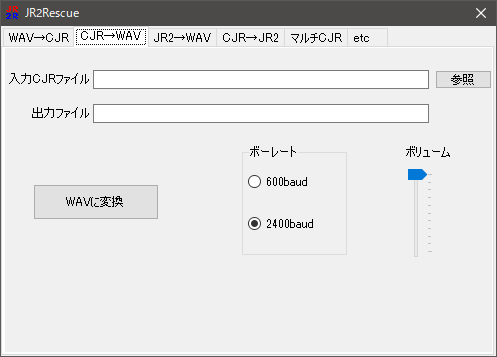
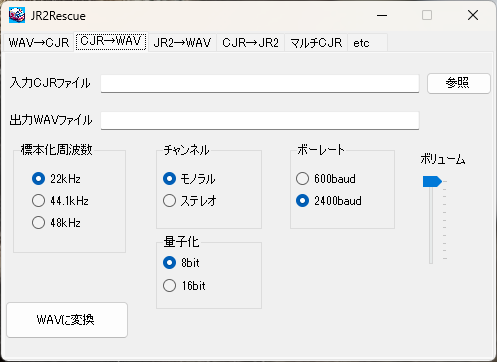
20240218

diff --git a/jr2rescue.html b/jr2rescue.html
@@ -35,17 +35,17 @@
 形式に変換したり、その他のフォーマットに変換するフリーソフトです。</p>
 
 	<ul>
-		<li>必要環境：.net Framework 3.5 以上</li>
+		<li>必要環境： Version 0.5.1. 以上　.net Framework 4.7.2 以上 　／　Version 0.4.2 以下　.net Framework 3.5 以上</li>
 		<li>読み込み可能 WAV ファイル：　サンプリング周波数　22kHz～48kHz、8bit または 16bit 量子化。チャネル数 1または2。リニア PCM のみ。</li>
 	</ul>
 
 <p><strong>※　このプログラムは十分な検証がされていません。ユーザー環境に有害な影響を与えるようなことはしていないつもりですが、いかなる損害が生じても当方は一切補償しません。了解の上ご利用下さい。</strong></p>
 
-<h4>■最新版　JR2Rescue Version 0.4.2</h4>
-	<p>2021.11.13&nbsp; 公開  
+<h4>■最新版　JR2Rescue Version 0.5.1</h4>
+	<p>2024.2.18&nbsp; 公開  
 	 
-	<a href="https://github.com/find-jr200/JR2Rescue/blob/main/JR2Rescue0_4_2.zip">
-	https://github.com/find-jr200/JR2Rescue/blob/main/JR2Rescue0_4_2.zip</a> (46KB)</p>
+	 
+	<a href="https://github.com/find-jr200/JR2Rescue/blob/main/JR2Rescue0_5_1.zip">https://github.com/find-jr200/JR2Rescue/blob/main/JR2Rescue0_5_1.zip</a> (204KB)</p>
 	<p><span lang="ja">　ダウンロードした</span>JR2Rescue<span lang="en-US">
 	</span><span lang="ja">を実行しようとすると「</span><span lang="en-US">Windows </span>
 	<span lang="ja">によって</span><span lang="en-US"> PC </span><span lang="ja">
@@ -53,7 +53,15 @@
 <p>　このプログラムを実行してのバグレポートなどは掲示板またはメール（アドレスはトップページの下の方にあります）にてお願いします。また、読込成功してベーマガプログラムや市販ソフト等のサルベージに成功した方は、よかったらゲーム画面のキャプチャを数点メールしていただけるとうれしいです。当サイトの Software コーナーで紹介させていただきます。</p>
 
 <h3>更新履歴</h3>
-	<p>2021.11.13 JR2Rescue 0.4.2</p>
+	<p>2024.2.18&nbsp; JR2Rescue 0.5.1</p>
+	<ul>
+		<li>WAV 出力フォーマットを 44.1/48kHz、8/16bit、モノ/ステレオも選べるようにしました。</li>
+		<li>実験的機能として、JR-300 のテープの CJR, BIN 化機能を追加ました。</li>
+		<li>アプリケーションアイコンを変更しました。</li>
+		<li>動作対象 .net framework が 4.7.2以上になりました。</li>
+	</ul>
+	<p>2021.11.13 
+	<a href="https://github.com/find-jr200/JR2Rescue/blob/main/JR2Rescue0_4_2.zip">JR2Rescue 0.4.2</a> (46KB)</p>
 	<ul>
 		<li>WAV→CJR 機能が動作しない不都合を修正しました。</li>
 		<li>WAV→CJR タブにある、モトローラS フォーマットでの出力機能を削除しました。</li>
@@ -151,10 +159,12 @@
 
 <p><img alt="" height="356" src="images/jr2r_1.png" width="495"></p>
 
-<p>1.　入力 WAV ファイルを指定し、「WAV読込」を押します。「読込に失敗しました」とダイアログが出る場合は、WAV 
+<p>1.　入力 WAV ファイルと機種を指定し、「WAV読込」を押します。「読込に失敗しました」とダイアログが出る場合は、WAV 
 解析に失敗しているので、飽和度、スレッショルドレベルを変更してみます。</p>
 
-<p>●飽和度</p>
+<p><strong>【注意】</strong>　JR-300 の CJR, BIN 
+化機能は実験的機能です。機種の指定を間違うと「変換が正常に終了しました」とメッセージが出ても正常なデータは生成されません。</p>
+	<p>●飽和度</p>
 
 <p>
 　トラックバーを最小にした状態が、「入力＝出力」、つまり飽和度調整をしない状態です。バーを上げて行くに従い飽和度が高くなります。その様子は右のグラフの緑色の線で確認できます。通常はグラフが半分くらいの位置で飽和するようにしておけばいいでしょう（初期値）。</p>
@@ -182,25 +192,17 @@
 
 <p><img alt="" height="356" src="images/jr2r_2.png" width="495"></p>
 
-<p>　入力 CJR ファイルに変換元のファイルを指定し、600baud / 2400baud を選択して「WAVに変換」を押してください。通常は 
+<p>　入力 CJR ファイルに変換元のファイルを指定し、PCM フォーマット、600baud / 2400baud を選択して「WAVに変換」を押してください。通常は 
 2400baud を選択すればいいでしょう。</p>
-
-<p>※注意点</p>
-
-<p>　出力される WAV ファイルは 22KHz, 8bit, モノラル固定です。</p>
 
 <h3>3. JR2→WAV</h3>
 	<p>JR2 ファイルを WAV ファイルに変換します。</p>
 	<p><img alt="" height="357" src="images/jr2r_3.png" width="497"></p>
-	<p>入力 JR2 ファイルと出力 WAV ファイルを指定し、「WAVに変換」を押してください。</p>
+	<p>入力 JR2 ファイルと出力 WAV ファイルを指定し、PCM フォーマットを選択して「WAVに変換」を押してください。</p>
 	<p>WAV 化した際に JR2 
 	ファイルにもともと付加してあるブランクでは正常に読み込めない場合は「ブランク拡張」にチェックを入れてください。プログラム、データ間のブランクが5秒程度になります（もともとのブランクがそれより長い場合はそのままになります）。ただし、もともとの 
 	JR2 ファイルがブランクなしで作成されている場合は、「ブランク拡張」にチェックを入れても拡張されません。その場合は JR2 
 	ファイルをブランクありで作り直してください。</p>
-
-<p>※注意点</p>
-
-<p>　出力される WAV ファイルは 22KHz, 8bit, モノラル固定です。</p>
 
 	<h3>4. CJR→JR2</h3>
 	<p>　CJR ファイルを JR2 フォーマットに変換します。</p>

diff --git a/jr2rescue_en.html b/jr2rescue_en.html
@@ -33,7 +33,8 @@
 programs on JR-200 to CJR format and other formats.</p>
 
 	<ul>
-		<li>Operation Environment : .net Framework 3.5 or later</li>
+		<li>Operation Environment : Version 0.5.1 and later .net Framework 4.7.2 
+		and later / Version 0.4.2 and older .net Framework 3.5 and later </li>
 		<li>Readable WAV file : sampling frequency 22kHz-48kHz, quantize 8bit or 16bit, 
 		channel 1 or 2.&nbsp; liner PCM only.</li>
 	</ul>
@@ -41,14 +42,16 @@ programs on JR-200 to CJR format and other formats.</p>
 	a harmful effect on the user environment, but I will not compensate for any 
 	damage. Please use it after understanding.</strong></p>
 
-<h4>* Latest version 0.4.2</h4>
-	<p>2021.11.13 
-	<a href="https://github.com/find-jr200/JR2Rescue/blob/main/JR2Rescue0_4_2.zip">
-	https://github.com/find-jr200/JR2Rescue/blob/main/JR2Rescue0_4_2.zip</a> (46KB)</p>
-	<p>*Change point</p>
+<h4>* Latest Version 0.5.1</h4>
+	<p>2024.2.18 
+	<a href="https://github.com/find-jr200/JR2Rescue/blob/main/JR2Rescue0_5_1.zip">https://github.com/find-jr200/JR2Rescue/blob/main/JR2Rescue0_5_1.zip</a> (204KB)</p>
+	<p>*Changed Point</p>
 	<ul>
-		<li>Fixed the problem that WAVtoCJR function does not work.</li>
-		<li>Removed the Motorola S format output feature on WAVtoCJR tab.</li>
+		<li>Added output WAV format (44.1/48kHz, 8/16bits, mono/stereo).</li>
+		<li>*Experimental* Added the function to convert JR-300 tapes to CJR and 
+		BIN formats.</li>
+		<li>changed application icon.</li>
+		<li>required .net framework 4.7.2 and later</li>
 	</ul>
 
 <h3>File Composition</h3>
@@ -64,7 +67,7 @@ programs on JR-200 to CJR format and other formats.</p>
 <p>&nbsp; Convert wav file to CJR, BIN format.</p>
 
 <p><img alt="" height="357" src="images/jr2r_1en.png" width="497"></p>
-	<p>1. Specify the input WAV file and press "Read WAV". If the dialog 
+	<p>1. Specify the input WAV file, output format, Model and press "Read WAV". If the dialog 
 	"failed" appears, WAV analysis has failed, so try changing the saturation 
 	and threshold levels.</p>
 	<p>2. If "Read WAV" is successful, the "Write File" button will be enabled. 
@@ -78,21 +81,14 @@ programs on JR-200 to CJR format and other formats.</p>
 <p><img alt="" height="357" src="images/jr2r_2en.png" width="497"></p>
 	<p>Please specify the source file as the input CJR file and the output file 
 	as the WAV file, select 600baud / 
-	2400baud and press "Convert to WAV"</p>
-
-<p>* Notice</p>
-
-<p>&nbsp; The output WAV format is 22KHz, 8bit, monaural fixed.</p>
+	2400baud , PCM formats and press "Convert to WAV"</p>
 
 <h3>3. JR2toWAV</h3>
 	<p>Convert JR2 to WAV</p>
 	<p><img alt="" height="357" src="images/jr2r_3en.png" width="497"></p>
 	<p>Please specify the input file as the input CJR file and the output file 
-	as the WAV file, press "Convert to WAV"</p>
+	as the WAV file and PCM formats, press "Convert to WAV"</p>
 
-<p>* Notice</p>
-
-<p>&nbsp; The output WAV format is 22KHz, 8bit, monaural fixed.&nbsp;</p>
 	<h3>4. CJR to JR2</h3>
 	<p>&nbsp; Convert CJR file to JR2 file.</p>
 	<p><img alt="" height="357" src="images/jr2r_4en.png" width="497"></p>
